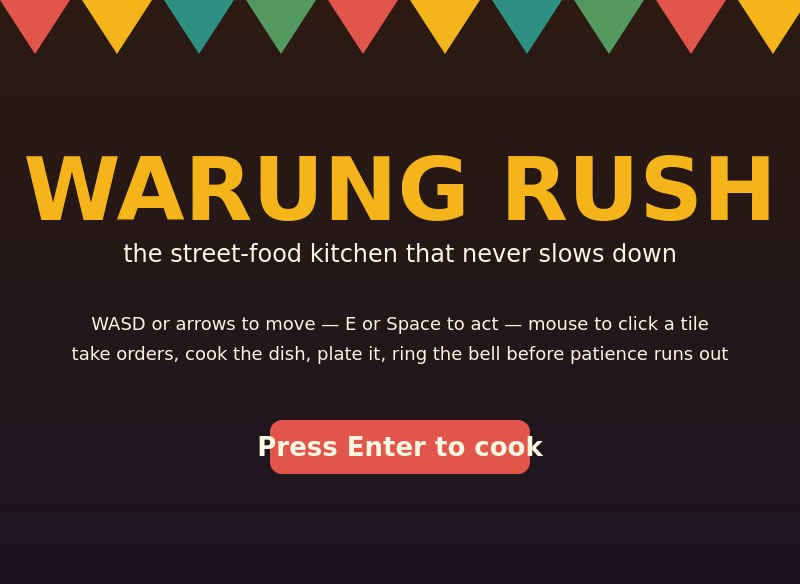
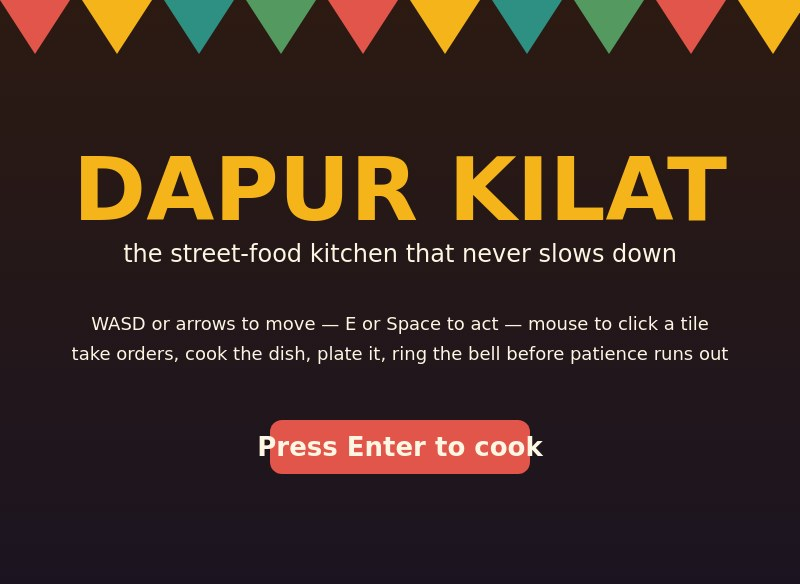
rename the game Dapur Kilat; new screenshots and README

Changed region(s): [[0.0312, 0.2466, 0.9688, 0.4007]]

diff --git a/game/index.html b/game/index.html
@@ -3,7 +3,7 @@
 <head>
 <meta charset="utf-8">
 <meta name="viewport" content="width=device-width, initial-scale=1">
-<title>Warung Rush</title>
+<title>Dapur Kilat</title>
 <style>
   html, body { margin: 0; height: 100%; overflow: hidden; background: #1b1420; }
   #game { position: fixed; inset: 0; width: 100%; height: 100%; display: block; touch-action: none; }
@@ -12,7 +12,7 @@
 </style>
 </head>
 <body>
-<canvas id="game" aria-label="Warung Rush: cook street-food orders in a busy Indonesian warung kitchen before the customers run out of patience"></canvas>
+<canvas id="game" aria-label="Dapur Kilat: cook street-food orders in a busy Indonesian warung kitchen before the customers run out of patience"></canvas>
 <p id="status" role="status" aria-live="polite"></p>
 <script type="module" src="./src/main.js"></script>
 </body>

diff --git a/game/src/render.js b/game/src/render.js
@@ -131,7 +131,7 @@ export function drawTitle(g, best) {
   g.textAlign = 'center';
   g.fillStyle = PALETTE.accent2;
   g.font = 'bold 88px sans-serif';
-  g.fillText('WARUNG RUSH', VIEW_WIDTH / 2, 220);
+  g.fillText('DAPUR KILAT', VIEW_WIDTH / 2, 220);
   g.fillStyle = PALETTE.paper;
   g.font = '24px sans-serif';
   g.fillText('the street-food kitchen that never slows down', VIEW_WIDTH / 2, 262);
@@ -168,7 +168,7 @@ export function drawPaused(g) {
 export function drawDayEnd(g, world, best) {
   centrePanel(
     g,
-    world.victory ? 'Warung Legend!' : `Day ${world.day} closed`,
+    world.victory ? 'Dapur Legend!' : `Day ${world.day} closed`,
     [
       `served ${world.served} orders — ${world.misses} customers lost`,
       `day score $${world.dayScore}  •  total $${world.score}`,

diff --git a/main.ts b/main.ts
@@ -1,4 +1,4 @@
-// Warung Rush's hand-in program (Node 22, standard library only): copies the game and the
+// Dapur Kilat's hand-in program (Node 22, standard library only): copies the game and the
 // screenshots beside this file into /output and writes /output/dossier.json with the vendored
 // make.fun library. Outside the grader, MAKEFUN_OUTPUT_DIR stands in for /output:
 //   mkdir -p out && MAKEFUN_OUTPUT_DIR=out node main.ts

diff --git a/game/src/config.js b/game/src/config.js
@@ -80,4 +80,4 @@ export const SCREEN_DAY_END = 'day_end';
 export const SCREEN_GAME_OVER = 'game_over';
 
 /** Storage key of the best day score. */
-export const BEST_KEY = 'warung-rush-best';
+export const BEST_KEY = 'dapur-kilat-best';

diff --git a/README.md b/README.md
@@ -1,14 +1,14 @@
-# warung-rush
+# dapur-kilat
 
 [![make.fun - best-cooking-game-20261125-0137](https://make.fun/badge/best-cooking-game-20261125-0137.svg)](https://make.fun/bounty/best-cooking-game-20261125-0137?utm_source=github&utm_medium=readme&utm_campaign=best-cooking-game-20261125-0137)
 [![rank](https://make.fun/badge/best-cooking-game-20261125-0137/dzulmi-7/warung-rush/rank.svg)](https://make.fun/bounty/best-cooking-game-20261125-0137/leaderboard?utm_source=github&utm_medium=readme&utm_campaign=best-cooking-game-20261125-0137)
 [![reward](https://make.fun/badge/best-cooking-game-20261125-0137/dzulmi-7/warung-rush/reward.svg)](https://make.fun/bounty/best-cooking-game-20261125-0137?utm_source=github&utm_medium=readme&utm_campaign=best-cooking-game-20261125-0137)
 
-Warung Rush is an original cooking game for the desktop browser: run the kitchen of a busy
-Indonesian street-food stall. Take orders off the board, gather ingredients from the crates,
-chop on the boards, fry in the woks, boil the pot, steam the rice, plate the dish and ring the
-bell at the serve window before each customer's patience runs out. Three days of service,
-recipes that unlock as you go, combos for a clean streak and burnt pans when you linger.
+Dapur Kilat is an original cooking game for the desktop browser: you run the kitchen of a busy
+Indonesian street-food stall at rush hour. Take orders off the board, gather ingredients from
+the crates, chop on the boards, fry in the woks, boil the pot, steam the rice, plate the dish
+and ring the bell at the serve window before each customer's patience runs out. Three days of
+service, recipes that unlock as you go, combos for a clean streak and burnt pans when you linger.
 
 Built from static files with no network requests: vanilla ES modules drawing every sprite in
 code, with synthesised WebAudio sound. Serve game/ with any static server and open
